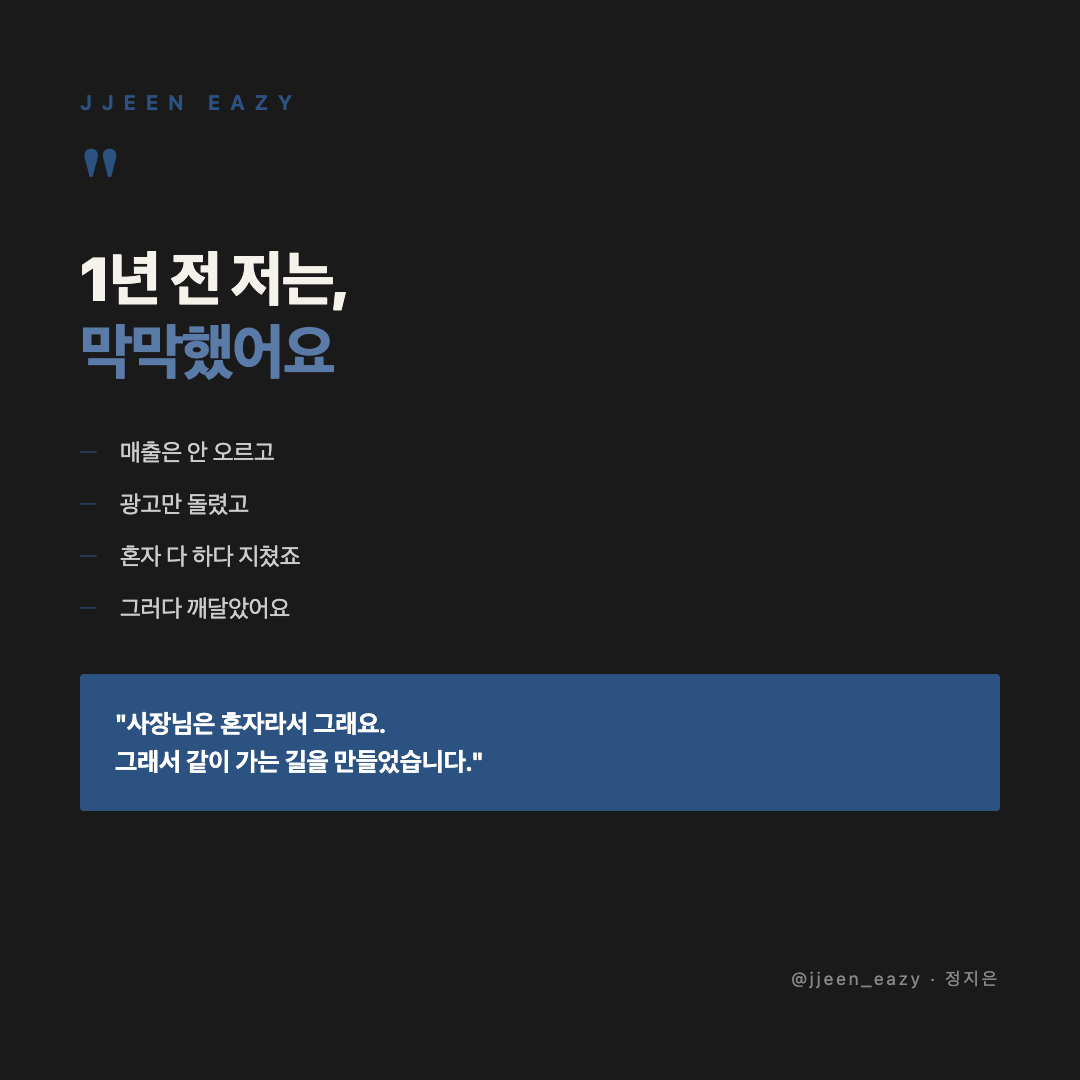
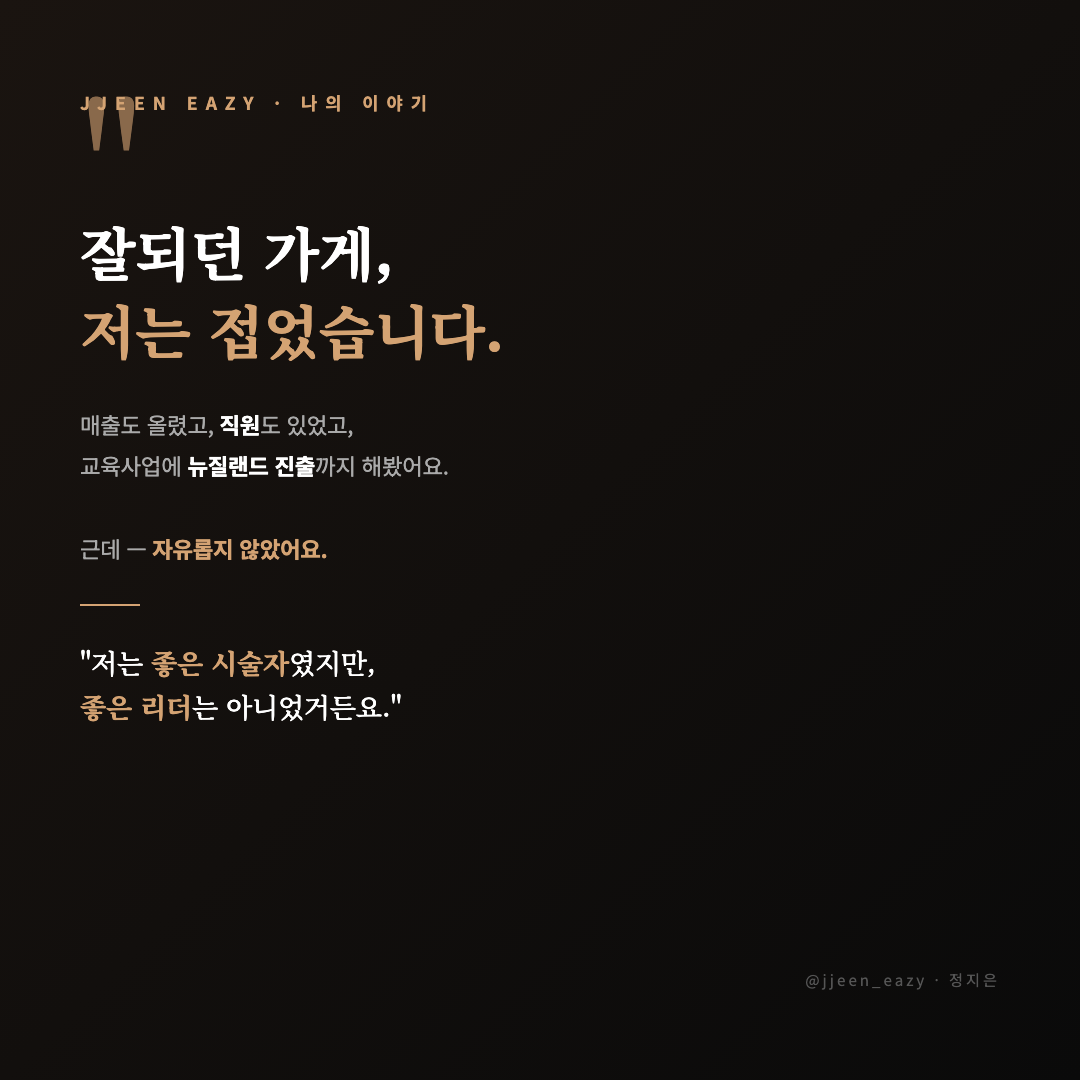
Rewrite card 2: 본인 진짜 스토리 (잘되던 가게, 저는 접었습니다)

diff --git a/thumbnail-2.html b/thumbnail-2.html
@@ -2,84 +2,84 @@
 <html lang="ko">
 <head>
     <meta charset="UTF-8">
-    <title>jjeen eazy - 고정 ② WHY</title>
+    <title>jjeen eazy - 고정 ③ 본인 스토리</title>
     <style>
+        @import url('https://fonts.googleapis.com/css2?family=Noto+Serif+KR:wght@400;500;700;900&family=Noto+Sans+KR:wght@400;500;700;900&display=swap');
         * { margin: 0; padding: 0; box-sizing: border-box; }
         html, body {
             width: 1080px;
             height: 1080px;
             overflow: hidden;
-            font-family: -apple-system, BlinkMacSystemFont, "Apple SD Gothic Neo", "Noto Sans KR", sans-serif;
-            background: #1a1a1a;
-            letter-spacing: -0.01em;
+            font-family: 'Noto Sans KR', sans-serif;
+            background: #0f0f0f;
+            letter-spacing: -0.02em;
         }
         .card {
             width: 1080px;
             height: 1080px;
-            background: #1a1a1a;
-            color: #f5f1eb;
+            background: linear-gradient(135deg, #1a1410 0%, #0a0a0a 100%);
+            color: #fff;
             display: flex;
             flex-direction: column;
             justify-content: space-between;
             padding: 90px 80px;
             position: relative;
         }
-        .brand-row {
-            font-size: 1.3rem;
-            letter-spacing: 10px;
-            color: #2c5282;
+        .label {
+            font-size: 1.1rem;
+            letter-spacing: 8px;
+            color: #d4a373;
             text-transform: uppercase;
             font-weight: 700;
         }
-        .marker {
-            font-size: 5rem;
-            color: #2c5282;
-            line-height: 1;
-            font-weight: 900;
-            font-family: Georgia, serif;
+        .quote-mark {
+            font-family: 'Noto Serif KR', serif;
+            font-size: 10rem;
+            color: #d4a373;
+            line-height: 0.3;
+            opacity: 0.6;
+            margin-top: 30px;
         }
         h2 {
-            font-size: 3.8rem;
-            font-weight: 900;
-            line-height: 1.2;
-            letter-spacing: -0.03em;
-            margin-top: 20px;
-        }
-        h2 .accent {
-            color: #5a7ba8;
-        }
-        .story-block {
-            display: flex;
-            flex-direction: column;
-            gap: 22px;
-            margin-top: 50px;
-        }
-        .story-line {
-            display: flex;
-            align-items: center;
-            gap: 18px;
-            font-size: 1.5rem;
-            color: #ccc;
-        }
-        .story-line .icon {
-            color: #2c5282;
-            font-size: 1.2rem;
-            font-weight: 900;
-            min-width: 22px;
-        }
-        .conclusion {
-            margin-top: 50px;
-            padding: 30px 35px;
-            background: #2c5282;
-            color: #fff;
-            border-radius: 4px;
-            font-size: 1.6rem;
+            font-family: 'Noto Serif KR', serif;
+            font-size: 3.6rem;
             font-weight: 700;
-            line-height: 1.5;
+            line-height: 1.35;
+            margin-top: 20px;
+            color: #fff;
+        }
+        h2 .accent { color: #d4a373; }
+        .body-text {
+            font-size: 1.4rem;
+            color: #aaa;
+            line-height: 1.85;
+            margin-top: 35px;
+            font-weight: 400;
+        }
+        .body-text strong {
+            color: #fff;
+            font-weight: 700;
+        }
+        .divider {
+            width: 60px;
+            height: 2px;
+            background: #d4a373;
+            margin: 35px 0;
+        }
+        .closing {
+            font-family: 'Noto Serif KR', serif;
+            font-size: 1.7rem;
+            line-height: 1.6;
+            font-weight: 500;
+            color: #fff;
+        }
+        .closing .accent {
+            color: #d4a373;
+            font-weight: 700;
         }
         .footer {
-            font-size: 1.1rem;
-            color: #888;
+            font-size: 0.95rem;
+            color: #555;
             letter-spacing: 3px;
             text-align: right;
         }
@@ -88,18 +88,23 @@
 <body>
     <div class="card">
         <div>
-            <div class="brand-row">jjeen eazy</div>
-            <div class="marker" style="margin-top: 28px;">"</div>
-            <h2>1년 전 저는,<br><span class="accent">막막했어요</span></h2>
-            <div class="story-block">
-                <div class="story-line"><span class="icon">━</span>매출은 안 오르고</div>
-                <div class="story-line"><span class="icon">━</span>광고만 돌렸고</div>
-                <div class="story-line"><span class="icon">━</span>혼자 다 하다 지쳤죠</div>
-                <div class="story-line"><span class="icon">━</span>그러다 깨달았어요</div>
-            </div>
-            <div class="conclusion">
-                "사장님은 혼자라서 그래요.<br>그래서 같이 가는 길을 만들었습니다."
-            </div>
+            <div class="label">JJEEN EAZY · 나의 이야기</div>
+            <div class="quote-mark">"</div>
+            <h2>잘되던 가게,<br><span class="accent">저는 접었습니다.</span></h2>
+
+            <p class="body-text">
+                매출도 올렸고, <strong>직원</strong>도 있었고,<br>
+                교육사업에 <strong>뉴질랜드 진출</strong>까지 해봤어요.<br>
+                <br>
+                근데 — <strong style="color:#d4a373;">자유롭지 않았어요.</strong>
+            </p>
+
+            <div class="divider"></div>
+
+            <p class="closing">
+                "저는 <span class="accent">좋은 시술자</span>였지만,<br>
+                <span class="accent">좋은 리더</span>는 아니었거든요."
+            </p>
         </div>
         <div class="footer">@jjeen_eazy · 정지은</div>
     </div>
